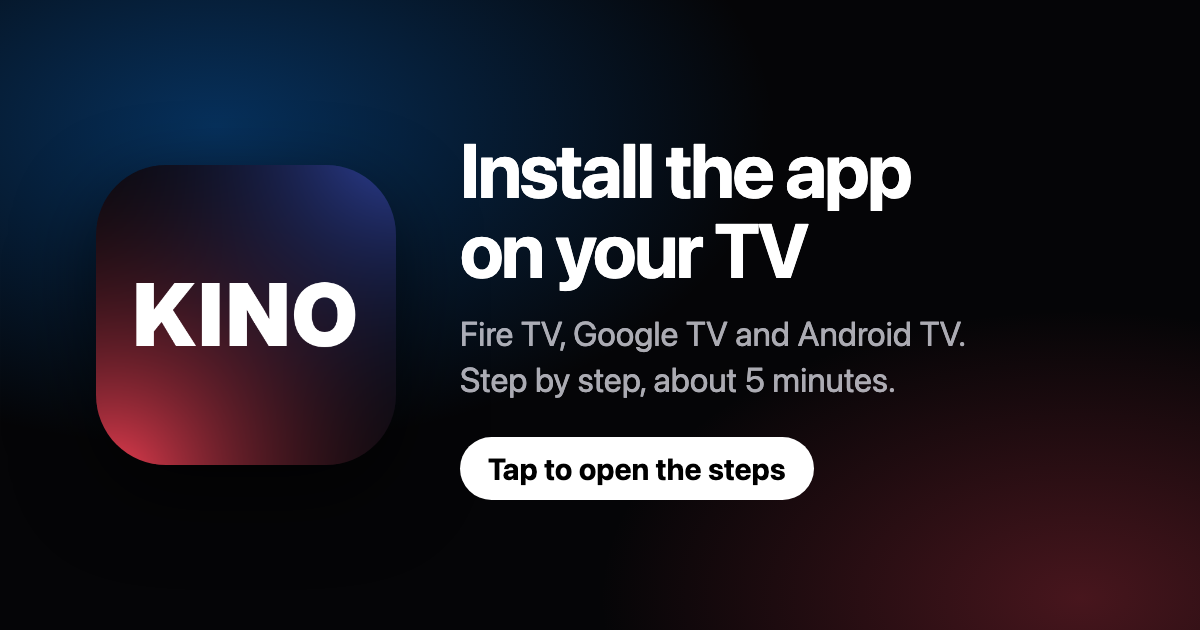
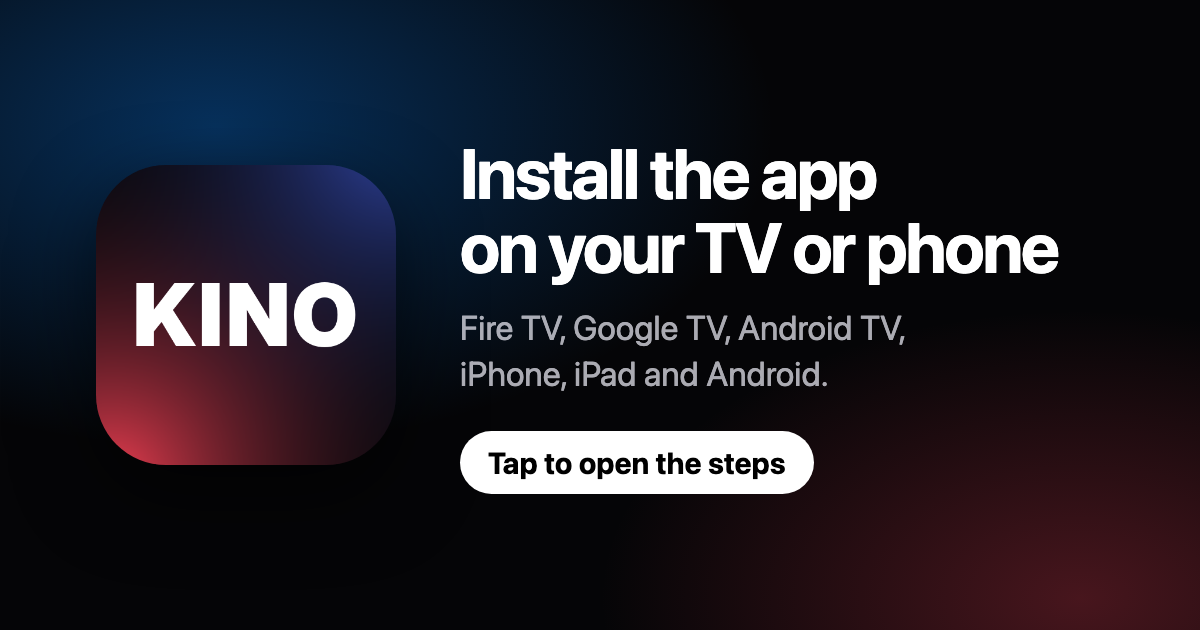
Install page: iPhone, iPad and Android phone steps, proper share card tags
- the picker has four devices now (Fire TV, Google TV or Android TV,
  iPhone or iPad, Android phone), a single row on wide screens
- iPhone and iPad: open in Safari, Share, Add to Home Screen, Add
- Android: Chrome menu, Add to Home screen or Install app, plus an
  expandable way to install the full Android app
- full Open Graph and Twitter tags (site name, canonical, image with
  type, size and alt text, theme colour for Discord) and a new share
  image for TV or phone, HEAD answered for crawlers
- the page lives in app/install.html now instead of a long string

Changed region(s): [[0.37, 0.2111, 0.8942, 0.6333], [0.37, 0.6635, 0.6783, 0.8143], [0.37, 0.2111, 0.4008, 0.2413]]

diff --git a/app/install.html b/app/install.html
@@ -1,0 +1,138 @@
+<!doctype html><html lang="en"><head><meta charset="utf-8"><meta name="viewport" content="width=device-width, initial-scale=1, viewport-fit=cover">
+<meta name="color-scheme" content="dark light"><meta name="theme-color" content="#0a84ff">
+<meta name="robots" content="noindex, nofollow"><title>Install the app on your TV or phone</title>
+<meta name="description" content="Step by step, about 5 minutes. For Fire TV, Google TV, Android TV, iPhone, iPad and Android phones.">
+<link rel="canonical" href="https://__HOST__/install">
+<meta property="og:site_name" content="Kino"><meta property="og:type" content="website"><meta property="og:locale" content="en_GB"><meta property="og:url" content="https://__HOST__/install">
+<meta property="og:title" content="Install the app on your TV or phone"><meta property="og:description" content="Step by step, about 5 minutes. For Fire TV, Google TV, Android TV, iPhone, iPad and Android phones.">
+<meta property="og:image" content="https://__HOST__/static/icon-share.png"><meta property="og:image:secure_url" content="https://__HOST__/static/icon-share.png"><meta property="og:image:type" content="image/png"><meta property="og:image:width" content="1200"><meta property="og:image:height" content="630"><meta property="og:image:alt" content="Install the app on your TV or phone">
+<meta name="twitter:card" content="summary_large_image"><meta name="twitter:title" content="Install the app on your TV or phone"><meta name="twitter:description" content="Step by step, about 5 minutes. For Fire TV, Google TV, Android TV, iPhone, iPad and Android phones."><meta name="twitter:image" content="https://__HOST__/static/icon-share.png"><meta name="twitter:image:alt" content="Install the app on your TV or phone">
+<link rel="icon" href="/static/icon.svg" type="image/svg+xml"><link rel="icon" href="/static/favicon-32.png" sizes="32x32" type="image/png"><link rel="apple-touch-icon" href="/static/icon-180.png">
+<link rel="stylesheet" href="/static/app.css?v=__V__">
+<style>
+html { -webkit-text-size-adjust: 100%; }
+.inst-body { display: block; padding: 0; min-height: 100vh; min-height: 100dvh; }
+.inst { width: 100%; max-width: 640px; margin: 0 auto; box-sizing: border-box; padding: max(22px, env(safe-area-inset-top)) max(16px, env(safe-area-inset-right)) max(48px, env(safe-area-inset-bottom)) max(16px, env(safe-area-inset-left)); font-size: 16px; line-height: 1.5; }
+.inst header { text-align: center; padding: 6px 0 12px; }
+.inst .logo { display: block; margin: 0 auto; width: 60px; height: 60px; border-radius: 16px; box-shadow: 0 10px 26px rgba(0, 0, 0, 0.35); }
+.inst h1 { font-size: 27px; line-height: 1.15; margin: 14px 0 6px; letter-spacing: -0.02em; }
+.inst .lead { color: var(--label-2); margin: 0; font-size: 16px; }
+.inst-pick > input { position: absolute; opacity: 0; width: 1px; height: 1px; }
+.pick-q { margin: 10px 0 8px; text-align: center; font-size: 14px; font-weight: 700; letter-spacing: 0.02em; text-transform: uppercase; color: var(--label-2); }
+.picker { position: sticky; top: 0; z-index: 20; margin: 0 -16px; padding: 8px 16px; background: var(--page-bg); background: color-mix(in srgb, var(--page-bg) 96%, transparent); -webkit-backdrop-filter: blur(16px); backdrop-filter: blur(16px); box-shadow: 0 1px 0 var(--sep, rgba(128, 128, 128, 0.25)); }
+.pick-row { display: grid; grid-template-columns: 1fr 1fr; gap: 8px; }
+.tv { display: flex; align-items: center; justify-content: flex-start; gap: 8px; min-height: 48px; padding: 6px 10px; border-radius: 14px; background: var(--bg-2); color: var(--label); font-size: 15px; font-weight: 700; line-height: 1.15; text-align: left; cursor: pointer; box-shadow: inset 0 0 0 2px var(--label-3); transition: background 0.18s, box-shadow 0.18s, color 0.18s; -webkit-tap-highlight-color: transparent; }
+.tv:active { transform: scale(0.98); }
+.tv .dot { flex: none; width: 22px; height: 22px; border-radius: 50%; box-shadow: inset 0 0 0 2px var(--label-3); display: grid; place-items: center; font-size: 14px; font-weight: 800; color: transparent; }
+.tv svg { flex: none; opacity: 0.8; }
+#tvFire:checked ~ .picker .tv[for="tvFire"] { background: var(--blue); color: #fff; box-shadow: none; }
+#tvGoogle:checked ~ .picker .tv[for="tvGoogle"] { background: var(--blue); color: #fff; box-shadow: none; }
+#tvIos:checked ~ .picker .tv[for="tvIos"] { background: var(--blue); color: #fff; box-shadow: none; }
+#tvAndroid:checked ~ .picker .tv[for="tvAndroid"] { background: var(--blue); color: #fff; box-shadow: none; }
+#tvFire:checked ~ .picker .tv[for="tvFire"] .dot { background: #fff; color: var(--blue); box-shadow: none; }
+#tvGoogle:checked ~ .picker .tv[for="tvGoogle"] .dot { background: #fff; color: var(--blue); box-shadow: none; }
+#tvIos:checked ~ .picker .tv[for="tvIos"] .dot { background: #fff; color: var(--blue); box-shadow: none; }
+#tvAndroid:checked ~ .picker .tv[for="tvAndroid"] .dot { background: #fff; color: var(--blue); box-shadow: none; }
+#tvFire:checked ~ .picker .tv[for="tvFire"] .dot::before { content: "\2713"; }
+#tvGoogle:checked ~ .picker .tv[for="tvGoogle"] .dot::before { content: "\2713"; }
+#tvIos:checked ~ .picker .tv[for="tvIos"] .dot::before { content: "\2713"; }
+#tvAndroid:checked ~ .picker .tv[for="tvAndroid"] .dot::before { content: "\2713"; }
+#tvFire:focus-visible ~ .picker .tv[for="tvFire"] { outline: 3px solid var(--label); outline-offset: 2px; }
+#tvGoogle:focus-visible ~ .picker .tv[for="tvGoogle"] { outline: 3px solid var(--label); outline-offset: 2px; }
+#tvIos:focus-visible ~ .picker .tv[for="tvIos"] { outline: 3px solid var(--label); outline-offset: 2px; }
+#tvAndroid:focus-visible ~ .picker .tv[for="tvAndroid"] { outline: 3px solid var(--label); outline-offset: 2px; }
+.pick-cap { margin: 12px 0 14px; text-align: center; font-size: 14px; color: var(--label-2); line-height: 1.35; }
+.pick-cap span { display: none; }
+#tvFire:checked ~ .pick-cap .c1 { display: inline; }
+#tvGoogle:checked ~ .pick-cap .c2 { display: inline; }
+#tvIos:checked ~ .pick-cap .c3 { display: inline; }
+#tvAndroid:checked ~ .pick-cap .c4 { display: inline; }
+.inst-panel { display: none; }
+#tvFire:checked ~ #pFire { display: block; }
+#tvGoogle:checked ~ #pGoogle { display: block; }
+#tvIos:checked ~ #pIos { display: block; }
+#tvAndroid:checked ~ #pAndroid { display: block; }
+.steps { list-style: none; margin: 0; padding: 0; counter-reset: step; display: grid; gap: 10px; }
+.steps > li { counter-increment: step; position: relative; background: var(--bg-2); border-radius: 18px; padding: 14px 16px 14px 60px; }
+.steps > li::before { content: counter(step); position: absolute; left: 14px; top: 14px; width: 32px; height: 32px; border-radius: 50%; display: grid; place-items: center; background: var(--blue); color: #fff; font-weight: 800; font-size: 16px; }
+.steps h2 { margin: 3px 0 4px; font-size: 18px; line-height: 1.25; }
+.steps p { margin: 0 0 6px; color: var(--label-2); font-size: 16px; }
+.steps p:last-child { margin-bottom: 0; }
+.steps b { color: var(--label); font-weight: 700; }
+.addr { display: block; margin: 10px 0 8px; padding: 12px 10px; border-radius: 12px; background: var(--page-bg); box-shadow: inset 0 0 0 2px var(--blue); color: var(--label); font: 700 clamp(17px, 5.2vw, 22px)/1.2 ui-monospace, "SF Mono", Menlo, monospace; text-align: center; overflow-wrap: anywhere; user-select: all; }
+.inst details { margin-top: 10px; background: var(--page-bg); border-radius: 12px; padding: 2px 12px; }
+.inst summary { cursor: pointer; display: flex; align-items: center; justify-content: space-between; gap: 12px; min-height: 44px; font-weight: 600; font-size: 15px; list-style: none; }
+.inst summary::-webkit-details-marker { display: none; }
+.inst summary::after { content: ""; flex: none; width: 9px; height: 9px; margin-right: 3px; border-right: 2.5px solid var(--label-2); border-bottom: 2.5px solid var(--label-2); transform: rotate(45deg) translateY(-3px); transition: transform 0.2s; }
+.inst details[open] > summary::after { transform: rotate(-135deg) translateY(-3px); }
+.inst details p { font-size: 15px; color: var(--label-2); margin: 0 0 8px; }
+.inst details ol { margin: 0 0 10px; padding-left: 22px; color: var(--label-2); font-size: 15px; }
+.inst details li { margin-bottom: 6px; }
+.inst details b { color: var(--label); }
+.alt { background: var(--bg-2) !important; margin-top: 12px !important; }
+.inst .done { margin-top: 12px; padding: 16px; border-radius: 18px; text-align: center; background: var(--bg-2); }
+.inst .done h2 { margin: 0 0 4px; font-size: 20px; }
+.inst .done p { margin: 0 0 4px; color: var(--label-2); font-size: 15px; }
+.wa { display: grid; grid-template-columns: 48px 1fr auto; align-items: center; gap: 14px; margin: 22px 0 0; padding: 14px; border-radius: 18px; background: var(--bg-2); color: var(--label); text-decoration: none; box-shadow: inset 0 0 0 2px rgba(37, 211, 102, 0.5); }
+.wa-logo { width: 48px; height: 48px; border-radius: 13px; background: #25D366; display: grid; place-items: center; }
+.wa-logo svg { width: 30px; height: 30px; fill: #fff; }
+.wa-text b { display: block; font-size: 16px; line-height: 1.25; }
+.wa-text span { display: block; color: var(--label-2); font-size: 14px; line-height: 1.35; margin-top: 2px; }
+.wa-btn { display: inline-flex; align-items: center; justify-content: center; min-height: 44px; padding: 0 20px; box-sizing: border-box; border-radius: 999px; background: #25D366; color: #06210f; font-weight: 800; font-size: 15px; white-space: nowrap; }
+.wa:focus-visible { outline: 3px solid var(--label); outline-offset: 2px; }
+@media (min-width: 640px) { .pick-row { grid-template-columns: repeat(4, 1fr); } .tv { font-size: 14px; padding: 6px 8px; gap: 6px; } .tv .dot { width: 20px; height: 20px; } }
+@media (min-width: 760px) { .inst { max-width: 720px; padding-top: 36px; } .inst h1 { font-size: 32px; } }
+@media (max-width: 400px) { .tv { font-size: 14px; gap: 6px; padding: 6px 8px; } .tv svg { display: none; } .wa { grid-template-columns: 44px 1fr; } .wa-logo { width: 44px; height: 44px; } .wa-btn { grid-column: 1 / -1; text-align: center; } }
+</style></head><body class="inst-body"><main class="inst">
+<header><img class="logo" src="/static/icon.svg" alt=""><h1>Install the app</h1><p class="lead">Pick your device and follow the steps, it takes about 5 minutes.</p></header>
+<div class="inst-pick">
+<input type="radio" name="tv" id="tvFire" checked aria-label="Amazon Fire TV"><input type="radio" name="tv" id="tvGoogle" aria-label="Google TV or Android TV"><input type="radio" name="tv" id="tvIos" aria-label="iPhone or iPad"><input type="radio" name="tv" id="tvAndroid" aria-label="Android phone or tablet">
+<p class="pick-q">Which device do you have?</p>
+<div class="picker"><div class="pick-row">
+<label class="tv" for="tvFire"><span class="dot" aria-hidden="true"></span><svg viewBox="0 0 24 24" width="22" height="22" fill="none" stroke="currentColor" stroke-width="2" stroke-linecap="round" stroke-linejoin="round" aria-hidden="true"><rect x="2.5" y="4" width="19" height="13" rx="2.5"/><path d="M8 21h8M12 17v4"/></svg><span>Fire TV</span></label>
+<label class="tv" for="tvGoogle"><span class="dot" aria-hidden="true"></span><svg viewBox="0 0 24 24" width="22" height="22" fill="none" stroke="currentColor" stroke-width="2" stroke-linecap="round" stroke-linejoin="round" aria-hidden="true"><rect x="2.5" y="4" width="19" height="13" rx="2.5"/><path d="M8 21h8M12 17v4"/></svg><span>Google TV or Android TV</span></label>
+<label class="tv" for="tvIos"><span class="dot" aria-hidden="true"></span><svg viewBox="0 0 24 24" width="22" height="22" fill="none" stroke="currentColor" stroke-width="2" stroke-linecap="round" stroke-linejoin="round" aria-hidden="true"><rect x="6.5" y="2.5" width="11" height="19" rx="2.8"/><path d="M11 18.5h2"/></svg><span>iPhone or iPad</span></label>
+<label class="tv" for="tvAndroid"><span class="dot" aria-hidden="true"></span><svg viewBox="0 0 24 24" width="22" height="22" fill="none" stroke="currentColor" stroke-width="2" stroke-linecap="round" stroke-linejoin="round" aria-hidden="true"><rect x="6.5" y="2.5" width="11" height="19" rx="2.8"/><path d="M11 18.5h2"/></svg><span>Android phone</span></label>
+</div></div>
+<p class="pick-cap"><span class="c1">Showing steps for an Amazon Fire TV Stick or Fire TV box. Not yours? Tap another device above.</span><span class="c2">Showing steps for Google TV, Chromecast with Google TV, Sony, Philips, Nvidia Shield and more. Not yours? Tap another device above.</span><span class="c3">Showing steps for an iPhone or iPad. Not yours? Tap another device above.</span><span class="c4">Showing steps for an Android phone or tablet. Not yours? Tap another device above.</span></p>
+
+<section class="inst-panel" id="pFire"><ol class="steps">
+<li><h2>Get the Downloader app</h2><p>On the Fire TV home screen, go to the <b>magnifying glass</b> (Find), choose <b>Search</b> and type <b>Downloader</b>.</p><p>Pick the app with the <b>orange</b> icon, then press <b>Get</b> or <b>Download</b> and wait for it to finish.</p></li>
+<li><h2>Open Downloader</h2><p>Press <b>Open</b>. If it asks to allow access to your photos, media and files, press <b>Allow</b>. Press <b>OK</b> on any welcome messages.</p></li>
+<li><h2>Type the address</h2><p>Click the box at the top, and type this exactly (no spaces, all small letters):</p><span class="addr">__ADDR__</span><p>Then press <b>Go</b>.</p><details><summary>The letters are hard to type</summary><p>Use the on-screen keyboard with your remote's arrow buttons and <b>OK</b>. Or install the free <b>Amazon Fire TV</b> app on your phone, which lets you type on the phone instead.</p></details></li>
+<li><h2>Wait, then press Install</h2><p>It downloads by itself. When it shows <b>Install</b> at the bottom right, press <b>Install</b>.</p><details><summary>It says "can't install" or "unknown apps"</summary><p>This is normal. Press <b>Settings</b>, turn <b>Downloader</b> to <b>On</b>, then press the <b>Back</b> button on your remote and press <b>Install</b> again.</p><p>If there is no Settings button: on the Fire TV home screen go to <b>Settings</b>, then <b>My Fire TV</b>, then <b>Developer options</b>, then <b>Install unknown apps</b> and turn <b>Downloader</b> on. If you do not see Developer options, go to <b>About</b> and press <b>OK</b> on the device name 7 times.</p></details></li>
+<li><h2>Open it</h2><p>When it says the app is installed, press <b>Open</b>.</p><p>If Downloader asks about deleting the file, press <b>Delete</b> and then <b>Delete</b> again, you don't need it any more.</p></li>
+</ol><div class="done"><h2>That's it!</h2><p>The app is on your TV now. You can find it with your other apps.</p><p>Wrong steps? Tap your device at the top.</p></div></section>
+<section class="inst-panel" id="pGoogle"><ol class="steps">
+<li><h2>Get the Downloader app</h2><p>On the TV home screen go to <b>Apps</b>, choose <b>Search for apps</b> (or the magnifying glass) and type <b>Downloader</b>.</p><p>Pick the app with the <b>orange</b> icon and press <b>Install</b>. Wait for it to finish, then press <b>Open</b>.</p></li>
+<li><h2>Let it look at files</h2><p>If it asks to allow access to your photos, media and files, press <b>Allow</b>. Press <b>OK</b> on any welcome messages.</p></li>
+<li><h2>Type the address</h2><p>Click the box at the top, and type this exactly (no spaces, all small letters):</p><span class="addr">__ADDR__</span><p>Then press <b>Go</b>.</p><details><summary>The letters are hard to type</summary><p>Use the on-screen keyboard with your remote's arrow buttons and <b>OK</b>. Or use the <b>Google TV</b> app on your phone, which lets you type on the phone instead.</p></details></li>
+<li><h2>Wait, then press Install</h2><p>It downloads by itself. When it shows <b>Install</b>, press <b>Install</b>.</p><details><summary>It says "isn't allowed to install unknown apps"</summary><p>This is normal. Press <b>Settings</b>, turn <b>Allow from this source</b> to <b>On</b> for Downloader, then press the <b>Back</b> button on your remote and press <b>Install</b> again.</p><p>If you do not get a Settings button: go to the TV's <b>Settings</b>, then <b>Apps</b>, then <b>Security and restrictions</b>, then <b>Unknown sources</b> and turn <b>Downloader</b> on.</p></details></li>
+<li><h2>Open it</h2><p>When it says the app is installed, press <b>Open</b>.</p><p>If Downloader asks about deleting the file, press <b>Delete</b> and then <b>Delete</b> again, you don't need it any more.</p></li>
+</ol><div class="done"><h2>That's it!</h2><p>The app is on your TV now. You can find it with your other apps.</p><p>Wrong steps? Tap your device at the top.</p></div></section>
+
+<section class="inst-panel" id="pIos"><ol class="steps">
+<li><h2>Open it in Safari</h2><p>Open the <b>Safari</b> app and type this address in the bar at the top:</p><span class="addr">__SITE__</span><p>Then tap <b>Go</b>.</p><details><summary>I'm reading this inside WhatsApp</summary><p>Tap the little <b>compass</b> icon at the bottom right (or the <b>...</b> button) and choose <b>Open in Safari</b>. Then carry on with the next step.</p></details></li>
+<li><h2>Tap the Share button</h2><p>It is the square with an arrow pointing up. On an iPhone it is at the bottom of the screen, on an iPad it is at the top right.</p></li>
+<li><h2>Tap Add to Home Screen</h2><p>Scroll down the list that opens and tap <b>Add to Home Screen</b>.</p><details><summary>I can't find it</summary><p>Scroll all the way to the bottom of the list. If it is still not there, tap <b>Edit Actions</b> at the very bottom and add it, or tap <b>View More</b> if you see that.</p></details></li>
+<li><h2>Tap Add</h2><p>Tap <b>Add</b> at the top right. The app's icon is on your Home Screen now.</p></li>
+<li><h2>Open it</h2><p>Tap the icon on your Home Screen. It opens full screen, just like an app.</p></li>
+</ol><div class="done"><h2>That's it!</h2><p>The app is on your Home Screen now.</p><p>Wrong steps? Tap your device at the top.</p></div></section>
+
+<section class="inst-panel" id="pAndroid"><ol class="steps">
+<li><h2>Open it in Chrome</h2><p>Open the <b>Chrome</b> app and type this address in the bar at the top:</p><span class="addr">__SITE__</span><p>Then tap <b>Go</b>.</p><details><summary>I'm reading this inside WhatsApp</summary><p>Tap the <b>three dots</b> at the top right and choose <b>Open in Chrome</b> (or <b>Open in browser</b>). Then carry on with the next step.</p></details></li>
+<li><h2>Tap the menu</h2><p>Tap the <b>three dots</b> at the top right of Chrome.</p></li>
+<li><h2>Tap Add to Home screen</h2><p>Tap <b>Add to Home screen</b>. If you also see <b>Install app</b>, tap that one instead.</p></li>
+<li><h2>Tap Install or Add</h2><p>Tap <b>Install</b> (or <b>Add</b>), and <b>Add</b> again if it asks. The icon is on your Home screen now.</p></li>
+<li><h2>Open it</h2><p>Tap the icon on your Home screen. It opens full screen, just like an app.</p></li>
+</ol>
+<details class="alt"><summary>Want the full Android app instead?</summary><p>It has the best video player. You need to allow Chrome to install it, once.</p><ol>
+<li>Open <b>Chrome</b> and type <b>__ADDR__</b></li>
+<li>If Chrome says the file can be harmful, tap <b>Download anyway</b> or <b>OK</b>.</li>
+<li>When it has downloaded, tap <b>Open</b>.</li>
+<li>If it says your phone isn't allowed to install unknown apps, tap <b>Settings</b>, turn on <b>Allow from this source</b>, go <b>Back</b> and tap <b>Install</b>.</li>
+<li>Tap <b>Open</b>. It is installed.</li></ol></details>
+<div class="done"><h2>That's it!</h2><p>The app is on your Home screen now.</p><p>Wrong steps? Tap your device at the top.</p></div></section>
+</div>
+<a class="wa" href="https://chat.whatsapp.com/L5jdPY8N3j472JOLm2567W" target="_blank" rel="noopener noreferrer"><span class="wa-logo" aria-hidden="true"><svg viewBox="0 0 24 24"><path d="M17.472 14.382c-.297-.149-1.758-.867-2.03-.967-.273-.099-.471-.148-.67.15-.197.297-.767.966-.94 1.164-.173.199-.347.223-.644.075-.297-.15-1.255-.463-2.39-1.475-.883-.788-1.48-1.761-1.653-2.059-.173-.297-.018-.458.13-.606.134-.133.298-.347.446-.52.149-.174.198-.298.298-.497.099-.198.05-.371-.025-.52-.075-.149-.669-1.612-.916-2.207-.242-.579-.487-.5-.669-.51-.173-.008-.371-.01-.57-.01-.198 0-.52.074-.792.372-.272.297-1.04 1.016-1.04 2.479 0 1.462 1.065 2.875 1.213 3.074.149.198 2.096 3.2 5.077 4.487.709.306 1.262.489 1.694.625.712.227 1.36.195 1.871.118.571-.085 1.758-.719 2.006-1.413.248-.694.248-1.289.173-1.413-.074-.124-.272-.198-.57-.347m-5.421 7.403h-.004a9.87 9.87 0 01-5.031-1.378l-.361-.214-3.741.982.998-3.648-.235-.374a9.86 9.86 0 01-1.51-5.26c.001-5.45 4.436-9.884 9.888-9.884 2.64 0 5.122 1.03 6.988 2.898a9.825 9.825 0 012.893 6.994c-.003 5.45-4.437 9.884-9.885 9.884m8.413-18.297A11.815 11.815 0 0012.05 0C5.495 0 .16 5.335.157 11.892c0 2.096.547 4.142 1.588 5.945L.057 24l6.305-1.654a11.882 11.882 0 005.683 1.448h.005c6.554 0 11.89-5.335 11.893-11.893a11.821 11.821 0 00-3.48-8.413z"/></svg></span><span class="wa-text"><b>Stuck? Ask us on WhatsApp</b><span>Join our group and send a photo of your screen, someone will help.</span></span><span class="wa-btn">Join</span></a>
+</main></body></html>

diff --git a/app/app.py b/app/app.py
@@ -7713,100 +7713,16 @@ GATE_WORDMARK = (Path(__file__).with_name("static") / "wordmark.svg").read_text(
 # Anyone with the link can open /install (nginx lets it through without an approved device or address, like /gate) and it only says how to get the app on
 # a Fire TV, Google TV or Android TV with the Downloader app. /app (further down, nginx lets it through too) is the file itself, what Downloader is told to fetch. Neither says what the app
 # is or what is behind the gate, getting in still needs an allowed address or an approved device
-INSTALL_HTML = """<!doctype html><html lang="en"><head><meta charset="utf-8"><meta name="viewport" content="width=device-width, initial-scale=1, viewport-fit=cover">
-<meta name="color-scheme" content="dark light"><meta name="theme-color" content="#000000" media="(prefers-color-scheme: dark)"><meta name="theme-color" content="#ffffff" media="(prefers-color-scheme: light)">
-<meta name="robots" content="noindex, nofollow"><title>Install the app on your TV</title>
-<meta property="og:type" content="website"><meta property="og:title" content="Install the app on your TV"><meta property="og:description" content="Step by step, about 5 minutes. For Fire TV, Google TV and Android TV.">
-<meta property="og:image" content="https://__HOST__/static/icon-share.png"><meta property="og:image:width" content="1200"><meta property="og:image:height" content="630"><meta property="og:url" content="https://__HOST__/install">
-<meta name="twitter:card" content="summary_large_image"><meta name="twitter:title" content="Install the app on your TV"><meta name="twitter:image" content="https://__HOST__/static/icon-share.png">
-<link rel="icon" href="/static/icon.svg" type="image/svg+xml"><link rel="icon" href="/static/favicon-32.png" sizes="32x32" type="image/png"><link rel="apple-touch-icon" href="/static/icon-180.png">
-<link rel="stylesheet" href="/static/app.css?v=__V__">
-<style>
-html { -webkit-text-size-adjust: 100%; }
-.inst-body { display: block; padding: 0; min-height: 100vh; min-height: 100dvh; }
-.inst { width: 100%; max-width: 640px; margin: 0 auto; box-sizing: border-box; padding: max(22px, env(safe-area-inset-top)) max(16px, env(safe-area-inset-right)) max(48px, env(safe-area-inset-bottom)) max(16px, env(safe-area-inset-left)); font-size: 16px; line-height: 1.5; }
-.inst header { text-align: center; padding: 6px 0 14px; }
-.inst .logo { display: block; margin: 0 auto; width: 60px; height: 60px; border-radius: 16px; box-shadow: 0 10px 26px rgba(0, 0, 0, 0.35); }
-.inst h1 { font-size: 27px; line-height: 1.15; margin: 14px 0 6px; letter-spacing: -0.02em; }
-.inst .lead { color: var(--label-2); margin: 0; font-size: 16px; }
-.inst-pick > input { position: absolute; opacity: 0; width: 1px; height: 1px; }
-.picker { position: sticky; top: 0; z-index: 20; margin: 0 -16px 14px; padding: 10px 16px 10px; background: var(--page-bg); background: color-mix(in srgb, var(--page-bg) 96%, transparent); -webkit-backdrop-filter: blur(16px); backdrop-filter: blur(16px); box-shadow: 0 1px 0 var(--sep, rgba(128, 128, 128, 0.25)); }
-.pick-q { margin: 0 0 8px; text-align: center; font-size: 14px; font-weight: 700; letter-spacing: 0.02em; text-transform: uppercase; color: var(--label-2); }
-.pick-row { display: grid; grid-template-columns: 1fr 1fr; gap: 8px; }
-.tv { display: flex; align-items: center; justify-content: center; gap: 9px; min-height: 52px; padding: 8px 10px; border-radius: 14px; background: var(--bg-2); color: var(--label); font-size: 16px; font-weight: 700; line-height: 1.15; text-align: left; cursor: pointer; box-shadow: inset 0 0 0 2px var(--label-3); transition: background 0.18s, box-shadow 0.18s, color 0.18s; -webkit-tap-highlight-color: transparent; }
-.tv:active { transform: scale(0.98); }
-.tv .dot { flex: none; width: 22px; height: 22px; border-radius: 50%; box-shadow: inset 0 0 0 2px var(--label-3); display: grid; place-items: center; font-size: 14px; font-weight: 800; color: transparent; }
-.tv svg { flex: none; opacity: 0.8; }
-#tvFire:checked ~ .picker .tv[for="tvFire"], #tvGoogle:checked ~ .picker .tv[for="tvGoogle"] { background: var(--blue); color: #fff; box-shadow: none; }
-#tvFire:checked ~ .picker .tv[for="tvFire"] .dot, #tvGoogle:checked ~ .picker .tv[for="tvGoogle"] .dot { background: #fff; color: var(--blue); box-shadow: none; }
-#tvFire:checked ~ .picker .tv[for="tvFire"] .dot::before, #tvGoogle:checked ~ .picker .tv[for="tvGoogle"] .dot::before { content: "\\2713"; }
-#tvFire:focus-visible ~ .picker .tv[for="tvFire"], #tvGoogle:focus-visible ~ .picker .tv[for="tvGoogle"] { outline: 3px solid var(--label); outline-offset: 2px; }
-.pick-cap { margin: 8px 0 0; text-align: center; font-size: 14px; color: var(--label-2); line-height: 1.35; }
-.pick-cap span { display: none; }
-#tvFire:checked ~ .picker .pick-cap .c1, #tvGoogle:checked ~ .picker .pick-cap .c2 { display: inline; }
-.inst-panel { display: none; }
-#tvFire:checked ~ #pFire, #tvGoogle:checked ~ #pGoogle { display: block; }
-.steps { list-style: none; margin: 0; padding: 0; counter-reset: step; display: grid; gap: 10px; }
-.steps > li { counter-increment: step; position: relative; background: var(--bg-2); border-radius: 18px; padding: 14px 16px 14px 60px; }
-.steps > li::before { content: counter(step); position: absolute; left: 14px; top: 14px; width: 32px; height: 32px; border-radius: 50%; display: grid; place-items: center; background: var(--blue); color: #fff; font-weight: 800; font-size: 16px; }
-.steps h2 { margin: 3px 0 4px; font-size: 18px; line-height: 1.25; }
-.steps p { margin: 0 0 6px; color: var(--label-2); font-size: 16px; }
-.steps p:last-child { margin-bottom: 0; }
-.steps b { color: var(--label); font-weight: 700; }
-.addr { display: block; margin: 10px 0 8px; padding: 12px 10px; border-radius: 12px; background: var(--page-bg); box-shadow: inset 0 0 0 2px var(--blue); color: var(--label); font: 700 clamp(17px, 5.2vw, 22px)/1.2 ui-monospace, "SF Mono", Menlo, monospace; text-align: center; overflow-wrap: anywhere; user-select: all; }
-.inst details { margin-top: 10px; background: var(--page-bg); border-radius: 12px; padding: 2px 12px; }
-.inst summary { cursor: pointer; display: flex; align-items: center; justify-content: space-between; gap: 12px; min-height: 44px; font-weight: 600; font-size: 15px; list-style: none; }
-.inst summary::-webkit-details-marker { display: none; }
-.inst summary::after { content: ""; flex: none; width: 9px; height: 9px; margin-right: 3px; border-right: 2.5px solid var(--label-2); border-bottom: 2.5px solid var(--label-2); transform: rotate(45deg) translateY(-3px); transition: transform 0.2s; }
-.inst details[open] > summary::after { transform: rotate(-135deg) translateY(-3px); }
-.inst details p { font-size: 15px; }
-.inst .done { margin-top: 12px; padding: 16px; border-radius: 18px; text-align: center; background: var(--bg-2); }
-.inst .done h2 { margin: 0 0 4px; font-size: 20px; }
-.inst .done p { margin: 0 0 10px; color: var(--label-2); font-size: 15px; }
-.wrong { display: inline-flex; align-items: center; min-height: 44px; padding: 0 18px; box-sizing: border-box; border-radius: 999px; box-shadow: inset 0 0 0 2px var(--blue); color: var(--blue); font-weight: 700; font-size: 15px; cursor: pointer; }
-.wa { display: grid; grid-template-columns: 48px 1fr auto; align-items: center; gap: 14px; margin: 22px 0 0; padding: 14px; border-radius: 18px; background: var(--bg-2); color: var(--label); text-decoration: none; box-shadow: inset 0 0 0 2px rgba(37, 211, 102, 0.5); }
-.wa-logo { width: 48px; height: 48px; border-radius: 13px; background: #25D366; display: grid; place-items: center; }
-.wa-logo svg { width: 30px; height: 30px; fill: #fff; }
-.wa-text b { display: block; font-size: 16px; line-height: 1.25; }
-.wa-text span { display: block; color: var(--label-2); font-size: 14px; line-height: 1.35; margin-top: 2px; }
-.wa-btn { display: inline-flex; align-items: center; justify-content: center; min-height: 44px; padding: 0 20px; box-sizing: border-box; border-radius: 999px; background: #25D366; color: #06210f; font-weight: 800; font-size: 15px; white-space: nowrap; }
-.wa:focus-visible { outline: 3px solid var(--label); outline-offset: 2px; }
-@media (min-width: 760px) { .inst { max-width: 720px; padding-top: 36px; } .inst h1 { font-size: 32px; } .picker { margin: 0 -16px 16px; } }
-@media (max-width: 400px) { .tv { font-size: 15px; gap: 7px; padding: 8px 6px; } .tv svg { display: none; } .wa { grid-template-columns: 44px 1fr; } .wa-logo { width: 44px; height: 44px; } .wa-btn { grid-column: 1 / -1; text-align: center; } }
-</style></head><body class="inst-body"><main class="inst">
-<header><img class="logo" src="/static/icon.svg" alt=""><h1>Install the app on your TV</h1><p class="lead">Follow the steps one at a time, it takes about 5 minutes.</p></header>
-<div class="inst-pick">
-<input type="radio" name="tv" id="tvFire" checked aria-label="Amazon Fire TV"><input type="radio" name="tv" id="tvGoogle" aria-label="Google TV or Android TV">
-<div class="picker"><p class="pick-q">Which TV do you have?</p>
-<div class="pick-row"><label class="tv" for="tvFire"><span class="dot" aria-hidden="true"></span><svg viewBox="0 0 24 24" width="22" height="22" fill="none" stroke="currentColor" stroke-width="2" stroke-linecap="round" stroke-linejoin="round" aria-hidden="true"><rect x="2.5" y="4" width="19" height="13" rx="2.5"/><path d="M8 21h8M12 17v4"/></svg><span>Fire TV</span></label><label class="tv" for="tvGoogle"><span class="dot" aria-hidden="true"></span><svg viewBox="0 0 24 24" width="22" height="22" fill="none" stroke="currentColor" stroke-width="2" stroke-linecap="round" stroke-linejoin="round" aria-hidden="true"><rect x="2.5" y="4" width="19" height="13" rx="2.5"/><path d="M8 21h8M12 17v4"/></svg><span>Google TV or<br>Android TV</span></label></div>
-<p class="pick-cap"><span class="c1">Amazon Fire TV Stick or Fire TV box. Not your TV? Tap the other one.</span><span class="c2">Chromecast with Google TV, Sony, Philips, Nvidia Shield and more. Not your TV? Tap the other one.</span></p></div>
-
-<section class="inst-panel" id="pFire"><ol class="steps">
-<li><h2>Get the Downloader app</h2><p>On the Fire TV home screen, go to the <b>magnifying glass</b> (Find), choose <b>Search</b> and type <b>Downloader</b>.</p><p>Pick the app with the <b>orange</b> icon, then press <b>Get</b> or <b>Download</b> and wait for it to finish.</p></li>
-<li><h2>Open Downloader</h2><p>Press <b>Open</b>. If it asks to allow access to your photos, media and files, press <b>Allow</b>. Press <b>OK</b> on any welcome messages.</p></li>
-<li><h2>Type the address</h2><p>Click the box at the top, and type this exactly (no spaces, all small letters):</p><span class="addr">__ADDR__</span><p>Then press <b>Go</b>.</p><details><summary>The letters are hard to type</summary><p>Use the on-screen keyboard with your remote's arrow buttons and <b>OK</b>. Or install the free <b>Amazon Fire TV</b> app on your phone, which lets you type on the phone instead.</p></details></li>
-<li><h2>Wait, then press Install</h2><p>It downloads by itself. When it shows <b>Install</b> at the bottom right, press <b>Install</b>.</p><details><summary>It says "can't install" or "unknown apps"</summary><p>This is normal. Press <b>Settings</b>, turn <b>Downloader</b> to <b>On</b>, then press the <b>Back</b> button on your remote and press <b>Install</b> again.</p><p>If there is no Settings button: on the Fire TV home screen go to <b>Settings</b>, then <b>My Fire TV</b>, then <b>Developer options</b>, then <b>Install unknown apps</b> and turn <b>Downloader</b> on. If you do not see Developer options, go to <b>About</b> and press <b>OK</b> on the device name 7 times.</p></details></li>
-<li><h2>Open it</h2><p>When it says the app is installed, press <b>Open</b>.</p><p>If Downloader asks about deleting the file, press <b>Delete</b> and then <b>Delete</b> again, you don't need it any more.</p></li>
-</ol><div class="done"><h2>That's it!</h2><p>The app is on your TV now. You can find it with your other apps.</p><label class="wrong" for="tvGoogle">Wrong TV? Show the Google TV steps</label></div></section>
-<section class="inst-panel" id="pGoogle"><ol class="steps">
-<li><h2>Get the Downloader app</h2><p>On the TV home screen go to <b>Apps</b>, choose <b>Search for apps</b> (or the magnifying glass) and type <b>Downloader</b>.</p><p>Pick the app with the <b>orange</b> icon and press <b>Install</b>. Wait for it to finish, then press <b>Open</b>.</p></li>
-<li><h2>Let it look at files</h2><p>If it asks to allow access to your photos, media and files, press <b>Allow</b>. Press <b>OK</b> on any welcome messages.</p></li>
-<li><h2>Type the address</h2><p>Click the box at the top, and type this exactly (no spaces, all small letters):</p><span class="addr">__ADDR__</span><p>Then press <b>Go</b>.</p><details><summary>The letters are hard to type</summary><p>Use the on-screen keyboard with your remote's arrow buttons and <b>OK</b>. Or use the <b>Google TV</b> app on your phone, which lets you type on the phone instead.</p></details></li>
-<li><h2>Wait, then press Install</h2><p>It downloads by itself. When it shows <b>Install</b>, press <b>Install</b>.</p><details><summary>It says "isn't allowed to install unknown apps"</summary><p>This is normal. Press <b>Settings</b>, turn <b>Allow from this source</b> to <b>On</b> for Downloader, then press the <b>Back</b> button on your remote and press <b>Install</b> again.</p><p>If you do not get a Settings button: go to the TV's <b>Settings</b>, then <b>Apps</b>, then <b>Security and restrictions</b>, then <b>Unknown sources</b> and turn <b>Downloader</b> on.</p></details></li>
-<li><h2>Open it</h2><p>When it says the app is installed, press <b>Open</b>.</p><p>If Downloader asks about deleting the file, press <b>Delete</b> and then <b>Delete</b> again, you don't need it any more.</p></li>
-</ol><div class="done"><h2>That's it!</h2><p>The app is on your TV now. You can find it with your other apps.</p><label class="wrong" for="tvFire">Wrong TV? Show the Fire TV steps</label></div></section>
-</div>
-<a class="wa" href="https://chat.whatsapp.com/L5jdPY8N3j472JOLm2567W" target="_blank" rel="noopener noreferrer"><span class="wa-logo" aria-hidden="true"><svg viewBox="0 0 24 24"><path d="M17.472 14.382c-.297-.149-1.758-.867-2.03-.967-.273-.099-.471-.148-.67.15-.197.297-.767.966-.94 1.164-.173.199-.347.223-.644.075-.297-.15-1.255-.463-2.39-1.475-.883-.788-1.48-1.761-1.653-2.059-.173-.297-.018-.458.13-.606.134-.133.298-.347.446-.52.149-.174.198-.298.298-.497.099-.198.05-.371-.025-.52-.075-.149-.669-1.612-.916-2.207-.242-.579-.487-.5-.669-.51-.173-.008-.371-.01-.57-.01-.198 0-.52.074-.792.372-.272.297-1.04 1.016-1.04 2.479 0 1.462 1.065 2.875 1.213 3.074.149.198 2.096 3.2 5.077 4.487.709.306 1.262.489 1.694.625.712.227 1.36.195 1.871.118.571-.085 1.758-.719 2.006-1.413.248-.694.248-1.289.173-1.413-.074-.124-.272-.198-.57-.347m-5.421 7.403h-.004a9.87 9.87 0 01-5.031-1.378l-.361-.214-3.741.982.998-3.648-.235-.374a9.86 9.86 0 01-1.51-5.26c.001-5.45 4.436-9.884 9.888-9.884 2.64 0 5.122 1.03 6.988 2.898a9.825 9.825 0 012.893 6.994c-.003 5.45-4.437 9.884-9.885 9.884m8.413-18.297A11.815 11.815 0 0012.05 0C5.495 0 .16 5.335.157 11.892c0 2.096.547 4.142 1.588 5.945L.057 24l6.305-1.654a11.882 11.882 0 005.683 1.448h.005c6.554 0 11.89-5.335 11.893-11.893a11.821 11.821 0 00-3.48-8.413z"/></svg></span><span class="wa-text"><b>Stuck? Ask us on WhatsApp</b><span>Join our group and send a photo of your TV screen, someone will help.</span></span><span class="wa-btn">Join</span></a>
-</main></body></html>"""
+INSTALL_HTML = (Path(__file__).with_name("install.html")).read_text()
 INSTALL_HOST_RX = re.compile(r"[a-z0-9.-]{1,80}(:\d{1,5})?")
 
 
-@app.get("/install")
+@app.api_route("/install", methods=["GET", "HEAD"])
 async def install_page(request: Request):
     host = (request.headers.get("host") or "").lower()
     if not INSTALL_HOST_RX.fullmatch(host):
         host = "kino.reece.page"
-    return Response(INSTALL_HTML.replace("__V__", STATIC_VERSION["v"]).replace("__ADDR__", f"{host}/app").replace("__HOST__", host), media_type="text/html",
+    return Response(INSTALL_HTML.replace("__V__", STATIC_VERSION["v"]).replace("__ADDR__", f"{host}/app").replace("__SITE__", host).replace("__HOST__", host), media_type="text/html",
                     headers={"Cache-Control": "no-store"})
 
 
